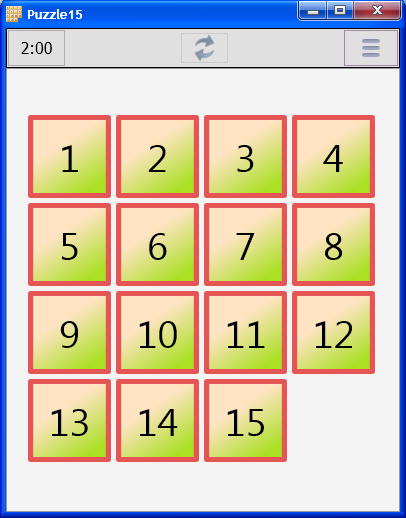
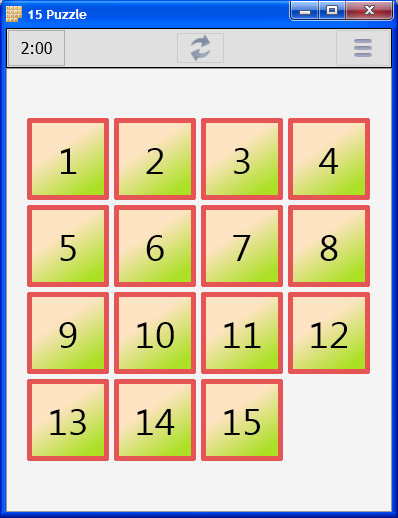
Add Android screenshot

diff --git a/README.md b/README.md
@@ -11,6 +11,10 @@
 
 ![alt-текст](https://github.com/GeorgeBobrov/Puzzle15.Delphi/blob/master/15Puzzle_Windows.png "Скриншот Windows-версии")
 
+  Скриншот Android-версии:
+
+![alt-текст](https://github.com/GeorgeBobrov/Puzzle15.Delphi/blob/master/15Puzzle_Android.png "Скриншот Android-версии")
+
 # Порт на QT
   Довольно давно у меня возникло желание портировать эту игрушку на JavaScript, заодно его и подучить. Однако так как JS ну совсем не похож на Delphi, у меня возникла идея портировать игру в два этапа – сначала на C++, а уже потом на JavaScript.
   
